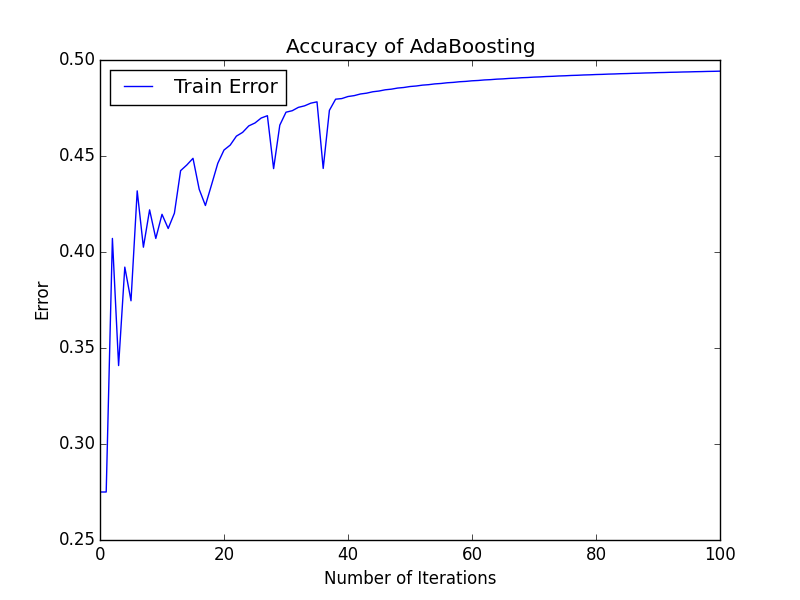
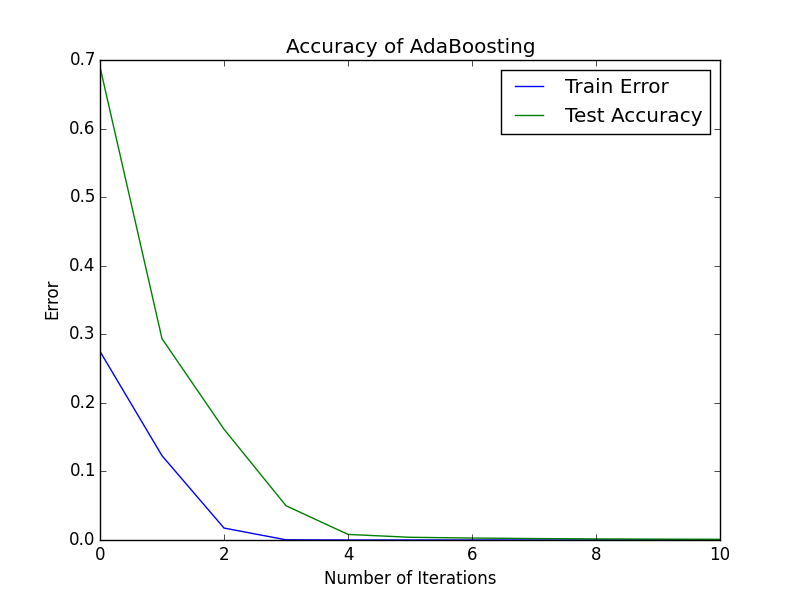
Fixed and working!

diff --git a/Assignment 3/assignment_2.py b/Assignment 3/assignment_2.py
@@ -564,6 +564,7 @@ def problem_3(Train_X, Train_Y, Test_X, Test_Y, numBags):
 	test_accuracies = []
 	train_accuracies = []
 	errorOverIterations = []
+	errorOverIterationsTest = []
 	iterationCount = []
 	bag_sizes = [5, 10, 15, 20, 25, 30]
 
@@ -584,22 +585,22 @@ def problem_3(Train_X, Train_Y, Test_X, Test_Y, numBags):
 		s = Stump()
 		s.weighted_learn_stump(Train_X, Train_Y, weightsTrain)
 		stumps.append(s)
+		print(s.test_accuracy(Train_X, Train_Y)[0])
 
 	all_train_predictions = []
 	all_test_predictions = []
 	for i in range(numBags):
 			all_train_predictions.append(stumps[i].test_accuracy(Train_X, Train_Y)[1])
-			#all_test_predictions.append(stumps[i].test_accuracy(Test_X, Test_Y)[1])
+			all_test_predictions.append(stumps[i].test_accuracy(Test_X, Test_Y)[1])
 
 	#Hypothesis
 	hTrain = voted_predict(all_train_predictions, numBags)
-	#hTest = voted_predict(all_test_predictions, numBags)
+	hTest = voted_predict(all_test_predictions, numBags)
 
 	#Error
-	#errorTrain = calc_acc(hTrain, Train_Y)
+	errorTest = 1-calc_err_weighted(hTrain, Train_Y, weightsTest)
 	errorTrain = 1-calc_err_weighted(hTrain, Train_Y, weightsTrain)
 
-	#errorTest = 1 - calc_acc_weighted(hTest, Test_Y, D)
 	print errorTrain
 	#Alpha
 	alpha = 0.5*math.log((1-errorTrain)/(errorTrain+0.000001))
@@ -607,16 +608,27 @@ def problem_3(Train_X, Train_Y, Test_X, Test_Y, numBags):
 	#Changing Weights
 	for i in range(len(weightsTrain)):
 		if(Train_Y[i] == hTrain[i]):
-			weightsTrain[i] * math.exp(-alpha)
+			weightsTrain[i] = weightsTrain[i] * math.exp(alpha)
 		else:
-			weightsTrain[i] * math.exp(alpha)
+			weightsTrain[i] = weightsTrain[i] * math.exp(-alpha)
+		
+		if(Test_Y[i] == hTest[i]):
+			weightsTest[i] = weightsTest[i] * math.exp(alpha)
+		else:
+			weightsTest[i] = weightsTest[i] * math.exp(-alpha)
+
+		
+	for i in range(len(weightsTest)):
+		weightsTest[i] /= sum(weightsTest)
 	
 	for i in range(len(weightsTrain)):
 		weightsTrain[i] /= sum(weightsTrain)
 	
 	errorOverIterations.append(errorTrain)
+	errorOverIterationsTest.append(errorTest)
 	iterationCount.append(0)
-	for iterations in xrange(0,100):
+
+	for iterations in xrange(0,10):
 		iterationCount.append(iterations+1)
 		stumps = []
 		for i in range(numBags):
@@ -625,39 +637,50 @@ def problem_3(Train_X, Train_Y, Test_X, Test_Y, numBags):
 			stumps.append(s)
 		
 		all_train_predictions = []
-		#all_test_predictions = []
+		all_test_predictions = []
 		for i in range(numBags):
 				all_train_predictions.append(stumps[i].test_accuracy(Train_X, Train_Y)[1])
-				#all_test_predictions.append(stumps[i].test_accuracy(Test_X, Test_Y)[1])
+				all_test_predictions.append(stumps[i].test_accuracy(Test_X, Test_Y)[1])
 
 		#Hypothesis
 		hTrain = voted_predict(all_train_predictions, numBags)
-		#hTest = voted_predict(all_test_predictions, numBags)
+		hTest = voted_predict(all_test_predictions, numBags)
 
 		#Error
 		#errorTrain = calc_acc(hTrain, Train_Y)
 		errorTrain = 1-calc_err_weighted(hTrain, Train_Y, weightsTrain)
-		#errorTest = 1 - calc_acc_weighted(hTest, Test_Y, D)
-		print errorTrain
+		errorTest = 1 - calc_err_weighted(hTest, Test_Y, weightsTest)
+
 		#Alpha
 		alpha = 0.5*math.log((1-errorTrain)/(errorTrain+0.000001))
 
 		#Changing Weights
 		for i in range(len(weightsTrain)):
 			if(Train_Y[i] == hTrain[i]):
-				weightsTrain[i] = weightsTrain[i] * math.exp(-alpha)
-			else:
 				weightsTrain[i] = weightsTrain[i] * math.exp(alpha)
+			else:
+				weightsTrain[i] = weightsTrain[i] * math.exp(-alpha)
+
+			if(Test_Y[i] == hTest[i]):
+				weightsTest[i] = weightsTest[i] * math.exp(alpha)
+			else:
+				weightsTest[i] = weightsTest[i] * math.exp(-alpha)
+
+		
+		for i in range(len(weightsTest)):
+			weightsTest[i] /= sum(weightsTest)
 
 		for i in range(len(weightsTrain)):
 			weightsTrain[i] /= sum(weightsTrain)
 
 		#print weightsTrain[0]
 		print (errorTrain), alpha
+		print errorTest, alpha
 		errorOverIterations.append(errorTrain)
+		errorOverIterationsTest.append(errorTest)
 
 	plt.plot(iterationCount, errorOverIterations, label='Train Error')
-	#plt.plot(bag_sizes, average_test_accuracy, label='Test Accuracy')
+	plt.plot(iterationCount, errorOverIterationsTest, label='Test Accuracy')
 	plt.legend(loc='best')
 	plt.xlabel("Number of Iterations")
 	plt.ylabel("Error")
